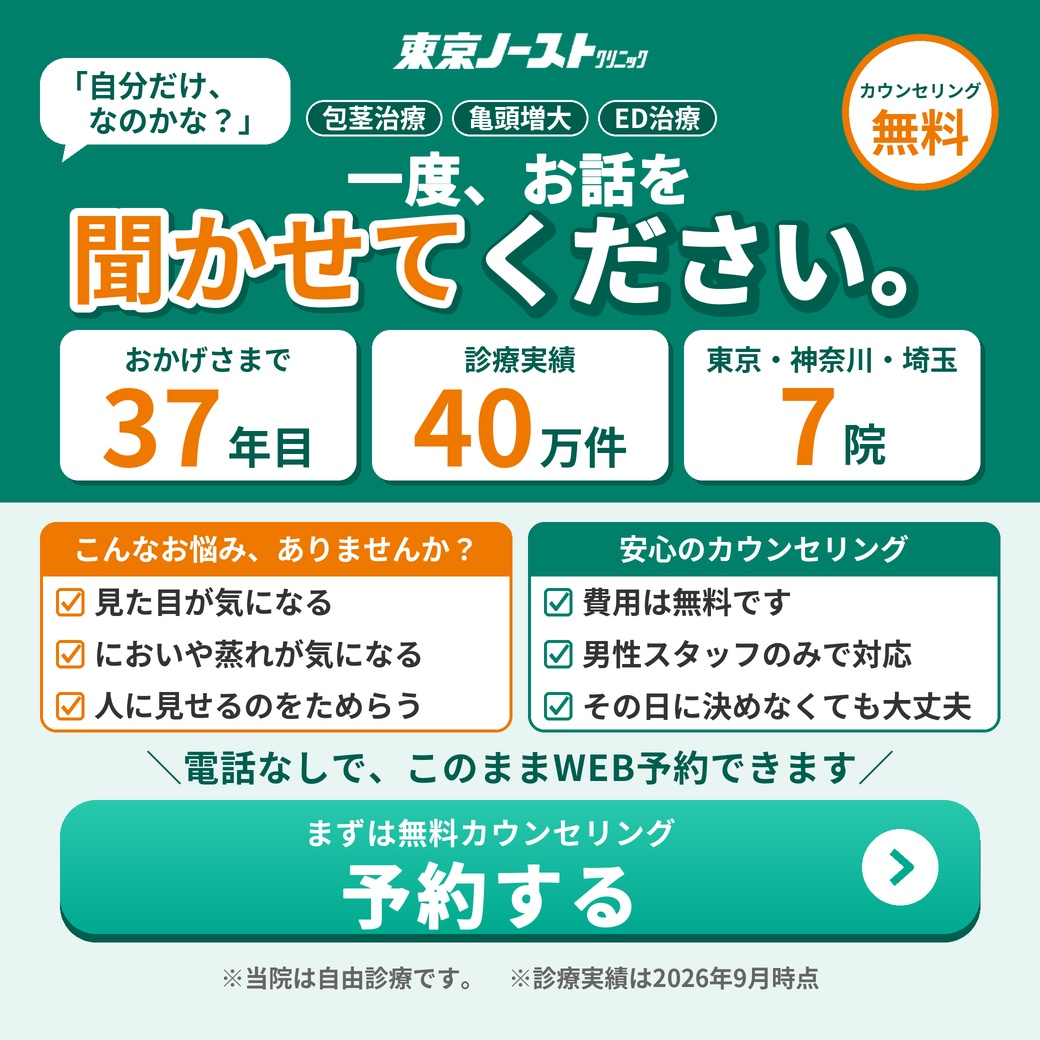
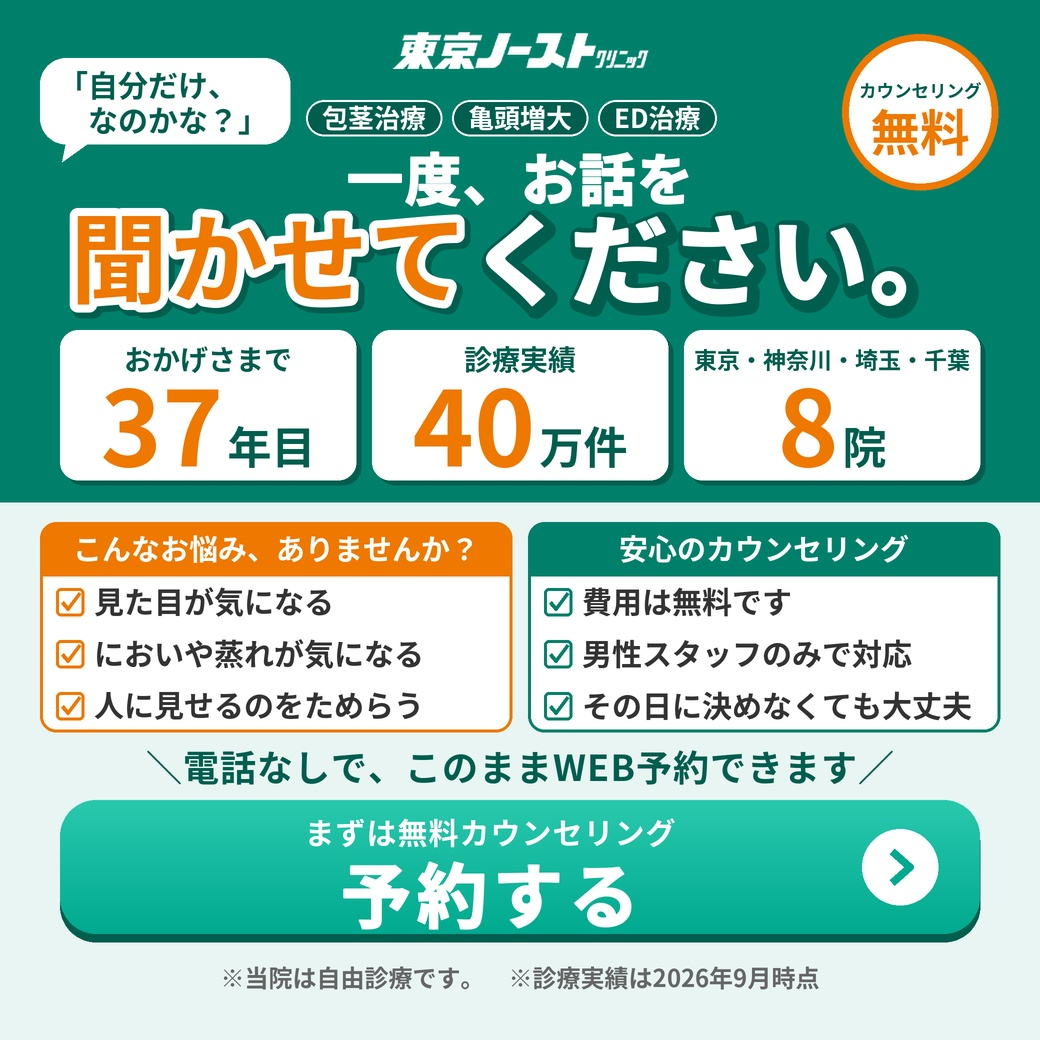
ノースト：10/26 3本目＝全国6エリアに分けて同時配信。エリア別バナー6枚・人数の目安・テキストの差し替え行・utm
Claude-Session: https://claude.ai/code/session_01CnhQmwwAuo8Vn8DBTM29QG

Changed region(s): [[0.6462, 0.3077, 0.9538, 0.4615]]

diff --git a/_build/build_norst_1026_banner_area.py b/_build/build_norst_1026_banner_area.py
@@ -1,0 +1,76 @@
+"""ノースト 10月3本目（10/26）のエリア別バナー（1040×1040）。v9の実績の3枚目の札だけをエリアの院数に変える。
+
+2026-10-20 殿村さん「同じ配信内容で、セグメント（地域分け）で切って、同時にめっちゃ配信してもいい」
+→ 全国を6つのエリアに分け、同じ中身で「近くの院」だけ変えた6本を同時に送る。
+配信先はOAMの属性（地域）。エリアの定義・院名・人数の根拠は `_data/norst/clinics_list_20261020.md` と
+`_data/norst/friend_demographic_area_20261020.csv`（`_drafts/東京ノーストクリニック_数値分析_2026-10.md`）。
+
+使い方:
+  python3 _build/build_norst_1026_banner_area.py            # 6本まとめて
+  python3 _build/build_norst_1026_banner_area.py kanto      # 1本だけ
+"""
+import sys
+from pathlib import Path
+
+sys.path.insert(0, str(Path(__file__).resolve().parent))
+import build_norst_1023_banner as base  # noqa: E402
+from build_norst_1019_rough import font, tw, th, text, text_c, rrect, ORANGE, GREEN_DARK, WHITE  # noqa: E402
+
+ROOT = Path(__file__).resolve().parent.parent
+
+# key: (札の上の言葉, 院数, 都道府県, 院名の行（テキスト用・1行14字以内）, utm)
+AREAS = {
+    "kanto": ("東京・神奈川・埼玉・千葉", 8, "東京都・神奈川県・埼玉県・千葉県",
+              ["上野／新宿／渋谷", "町田／八王子", "横浜／大宮／千葉"], "20261026_Alone_Kanto"),
+    "kitakanto": ("茨城・栃木・群馬", 3, "茨城県・栃木県・群馬県",
+                  ["水戸／宇都宮／高崎"], "20261026_Alone_KitaKanto"),
+    "kinki": ("近畿", 6, "大阪府・兵庫県・京都府・奈良県・三重県・滋賀県・和歌山県",
+              ["大阪／梅田／京都", "奈良／姫路／四日市"], "20261026_Alone_Kinki"),
+    "tokai": ("東海・北陸・甲信越", 8, "愛知県・静岡県・岐阜県・石川県・新潟県・富山県・福井県・山梨県・長野県",
+              ["名古屋／豊田／静岡", "岐阜／金沢／新潟", "甲府／長野"], "20261026_Alone_Tokai"),
+    "hokkaido_tohoku": ("北海道・東北", 2, "北海道・宮城県・福島県・岩手県・秋田県・山形県・青森県",
+                        ["札幌／仙台"], "20261026_Alone_Hokkaido"),
+    "nishi": ("中国・四国・九州", 6, "広島県・岡山県・山口県・島根県・鳥取県・香川県・愛媛県・徳島県・高知県・福岡県・長崎県・熊本県・鹿児島県・宮崎県・大分県・佐賀県・沖縄県",
+              ["広島／岡山／松江", "高松／福岡／鹿児島"], "20261026_Alone_Nishi"),
+}
+
+
+def stat_card_fit(d, x1, y1, x2, y2, label, num, unit):
+    """base.stat_card と同じ札。上の言葉が長いときだけ文字を小さくして札の幅に収める（28→22px）。"""
+    rrect(d, (x1 + 5, y1 + 5, x2 + 5, y2 + 5), 18, fill=GREEN_DARK)  # 影
+    rrect(d, (x1, y1, x2, y2), 18, fill=WHITE)
+    cx = (x1 + x2) / 2
+    size = 28
+    while tw(font(size), label) > (x2 - x1) - 20 and size > 20:
+        size -= 1
+    f_l, f_n, f_u = font(size), font(104), font(44)
+    text_c(d, label, f_l, cx, y1 + 16 + (28 - size) / 2, GREEN_DARK)
+    w = tw(f_n, num) + tw(f_u, unit) + 4
+    x = cx - w / 2
+    top = y1 + 58
+    text(d, num, f_n, x, top, ORANGE)
+    text(d, unit, f_u, x + tw(f_n, num) + 4, top + th(f_n, num) - th(f_u, unit), GREEN_DARK)
+
+
+def build(key, out=None):
+    label, n, _, _, _ = AREAS[key]
+    out = out or ROOT / "_images" / f"norst_1026_banner_{key}_1040.jpg"
+    orig = base.stat_card
+
+    def stat_card(d, x1, y1, x2, y2, lab, num, unit):
+        if lab == "全国に":
+            lab, num = label, str(n)
+        stat_card_fit(d, x1, y1, x2, y2, lab, num, unit)
+
+    base.stat_card = stat_card
+    try:
+        base.build(str(out))
+    finally:
+        base.stat_card = orig
+    return out
+
+
+if __name__ == "__main__":
+    keys = sys.argv[1:] or list(AREAS)
+    for k in keys:
+        print(build(k))

diff --git a/_drafts/東京ノーストクリニック_投稿文_2026-10.md b/_drafts/東京ノーストクリニック_投稿文_2026-10.md
@@ -4,6 +4,54 @@
 枠は `_drafts/東京ノーストクリニック_配信計画_9-11月.md` §2 のとおり（強み1つを主役／当日の不安を潰す／時期で締める）。
 **順番＝先に配信文と表示メッセージ。備考・画像プロンプトは本文がOKになってから**（9/24 殿村さんの進め方）。
 
+## ★2026-10-20 3本目（10/26）＝全国を6エリアに分けて同時に送る（殿村さん「同じ配信内容で、セグメント（地域分け）で切って、同時にめっちゃ配信してもいい」）
+東京・神奈川・埼玉だけでなく、全国を6つに分けて、同じ中身で「近くの院」だけ変えた6本を同時に送る。1人に届くのは1本。属性の「地域」は3日前の推定なので、人数は目安。
+バナー＝`python3 _build/build_norst_1026_banner_area.py`（v9の実績の3枚目の札だけエリアの院数に）。見比べ＝`_images/norst_1026_banner_area_sheet.jpg`。
+テキスト＝下の466字の版の「▼東京・神奈川・埼玉の院」の4行を、エリアごとの行に差し替えるだけ。アイテム名は6本とも同じ。
+画像のタップ＝6本ともLステップの自動応答用の一言「予約フォームを送ってください」（自動応答は1つで足りる。エリア別にタグを付けたいなら一言の末尾にエリア名を足し、自動応答を6つにする＝任意）。
+| エリア | 都道府県（OAMの地域で選ぶ） | 院 | 人数の目安 | utm | バナー |
+|---|---|---|---|---|---|
+| 関東（南） | 東京都・神奈川県・埼玉県・千葉県 | 8院：上野／新宿／渋谷／町田／八王子／横浜／大宮／千葉 | 26.5%・約1,800人 | 20261026_Alone_Kanto | `_images/norst_1026_banner_kanto_1040.jpg` |
+| 北関東 | 茨城県・栃木県・群馬県 | 3院：水戸／宇都宮／高崎 | 6.4%・約430人 | 20261026_Alone_KitaKanto | `_images/norst_1026_banner_kitakanto_1040.jpg` |
+| 近畿 | 大阪府・兵庫県・京都府・奈良県・三重県・滋賀県・和歌山県 | 6院：大阪／梅田／京都／奈良／姫路／四日市 | 17.2%・約1,170人 | 20261026_Alone_Kinki | `_images/norst_1026_banner_kinki_1040.jpg` |
+| 東海・北陸・甲信越 | 愛知県・静岡県・岐阜県・石川県・新潟県・富山県・福井県・山梨県・長野県 | 8院：名古屋／豊田／静岡／岐阜／金沢／新潟／甲府／長野 | 17.0%・約1,150人 | 20261026_Alone_Tokai | `_images/norst_1026_banner_tokai_1040.jpg` |
+| 北海道・東北 | 北海道・宮城県・福島県・岩手県・秋田県・山形県・青森県 | 2院：札幌／仙台 | 11.7%・約790人 | 20261026_Alone_Hokkaido | `_images/norst_1026_banner_hokkaido_tohoku_1040.jpg` |
+| 中国・四国・九州 | 広島県・岡山県・山口県・島根県・鳥取県・香川県・愛媛県・徳島県・高知県・福岡県・長崎県・熊本県・鹿児島県・宮崎県・大分県・佐賀県・沖縄県 | 6院：広島／岡山／松江／高松／福岡／鹿児島 | 20.7%・約1,410人 | 20261026_Alone_Nishi | `_images/norst_1026_banner_nishi_1040.jpg` |
+
+エリアごとのテキストの差し替え行：
+```
+【関東（南）】
+▼東京・神奈川・埼玉・千葉の院
+上野／新宿／渋谷
+町田／八王子
+横浜／大宮／千葉
+
+【北関東】
+▼茨城・栃木・群馬の院
+水戸／宇都宮／高崎
+
+【近畿】
+▼近畿の院
+大阪／梅田／京都
+奈良／姫路／四日市
+
+【東海・北陸・甲信越】
+▼東海・北陸・甲信越の院
+名古屋／豊田／静岡
+岐阜／金沢／新潟
+甲府／長野
+
+【北海道・東北】
+▼北海道・東北の院
+札幌／仙台
+
+【中国・四国・九州】
+▼中国・四国・九州の院
+広島／岡山／松江
+高松／福岡／鹿児島
+```
+院の一覧は検索から（`_data/norst/clinics_list_20261020.md`）。公式の院一覧と違う所があればその場で直す。
+
 ## ★2026-10-20 3本目（10/26）＝エリア配信（東京・神奈川・埼玉）に決定
 殿村さん「全部こっちでやればええやん、遠回りしすぎ／10月三配信目でエリア分けたらええやん／東京・神奈川・埼玉で配信したらええやん」。
 設定は殿村さんが全部やる。こちらは中身だけ。
